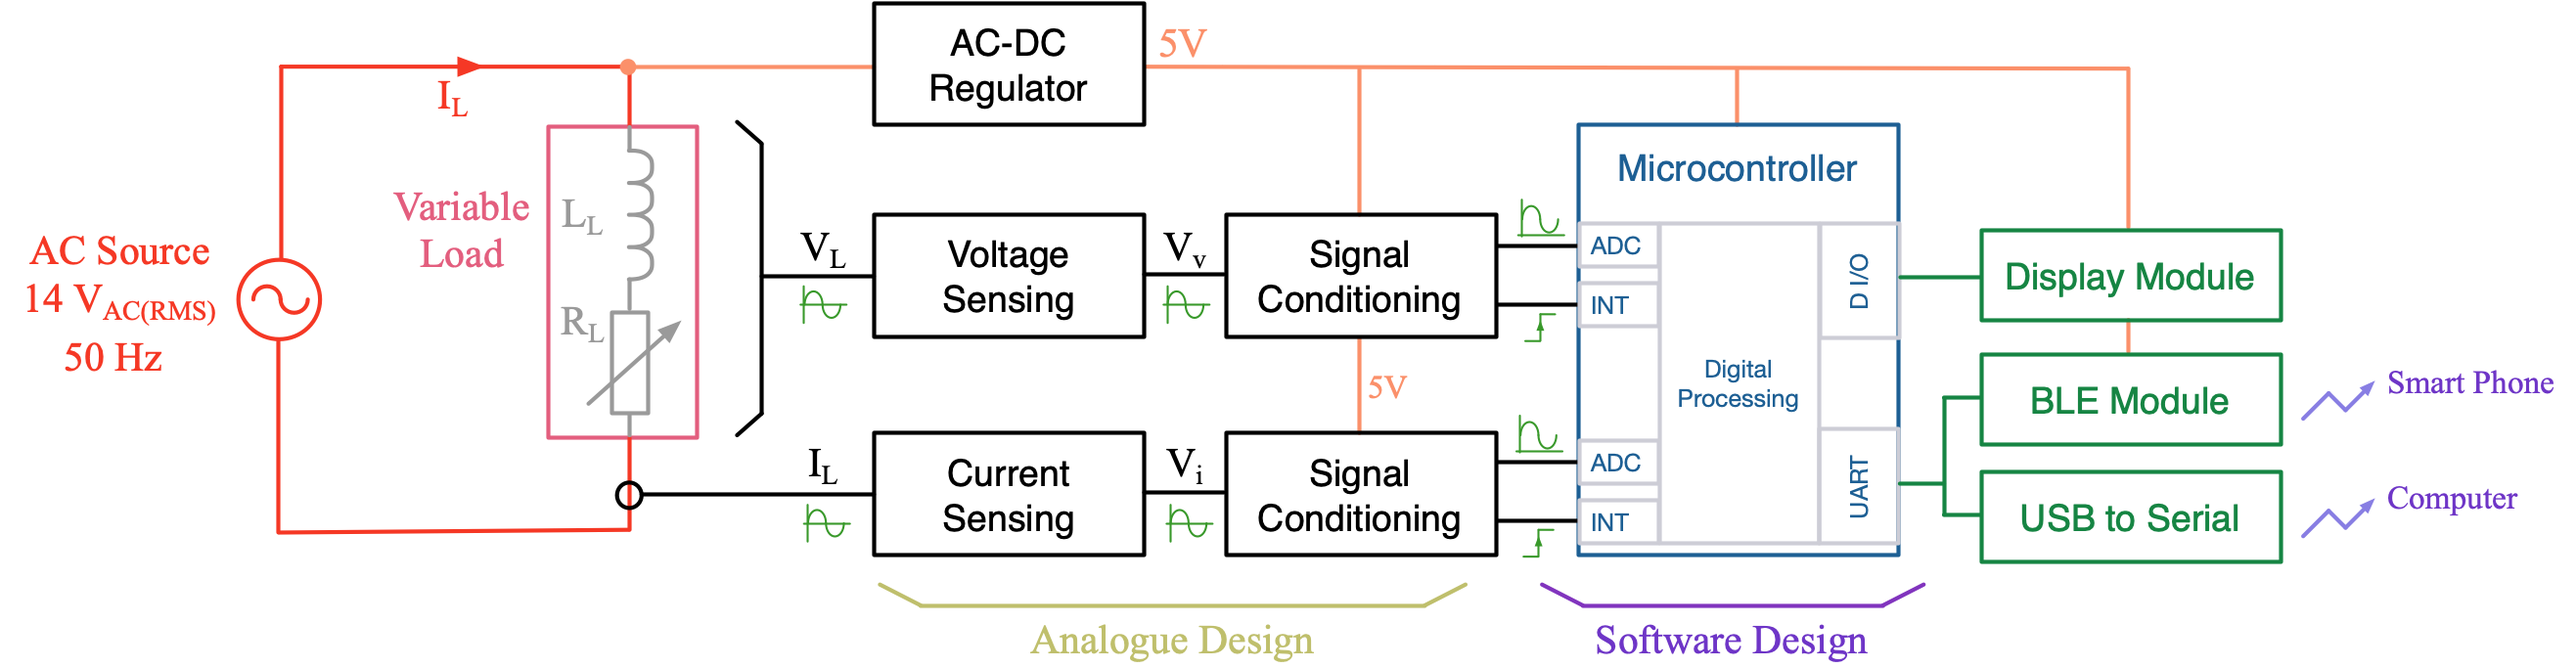
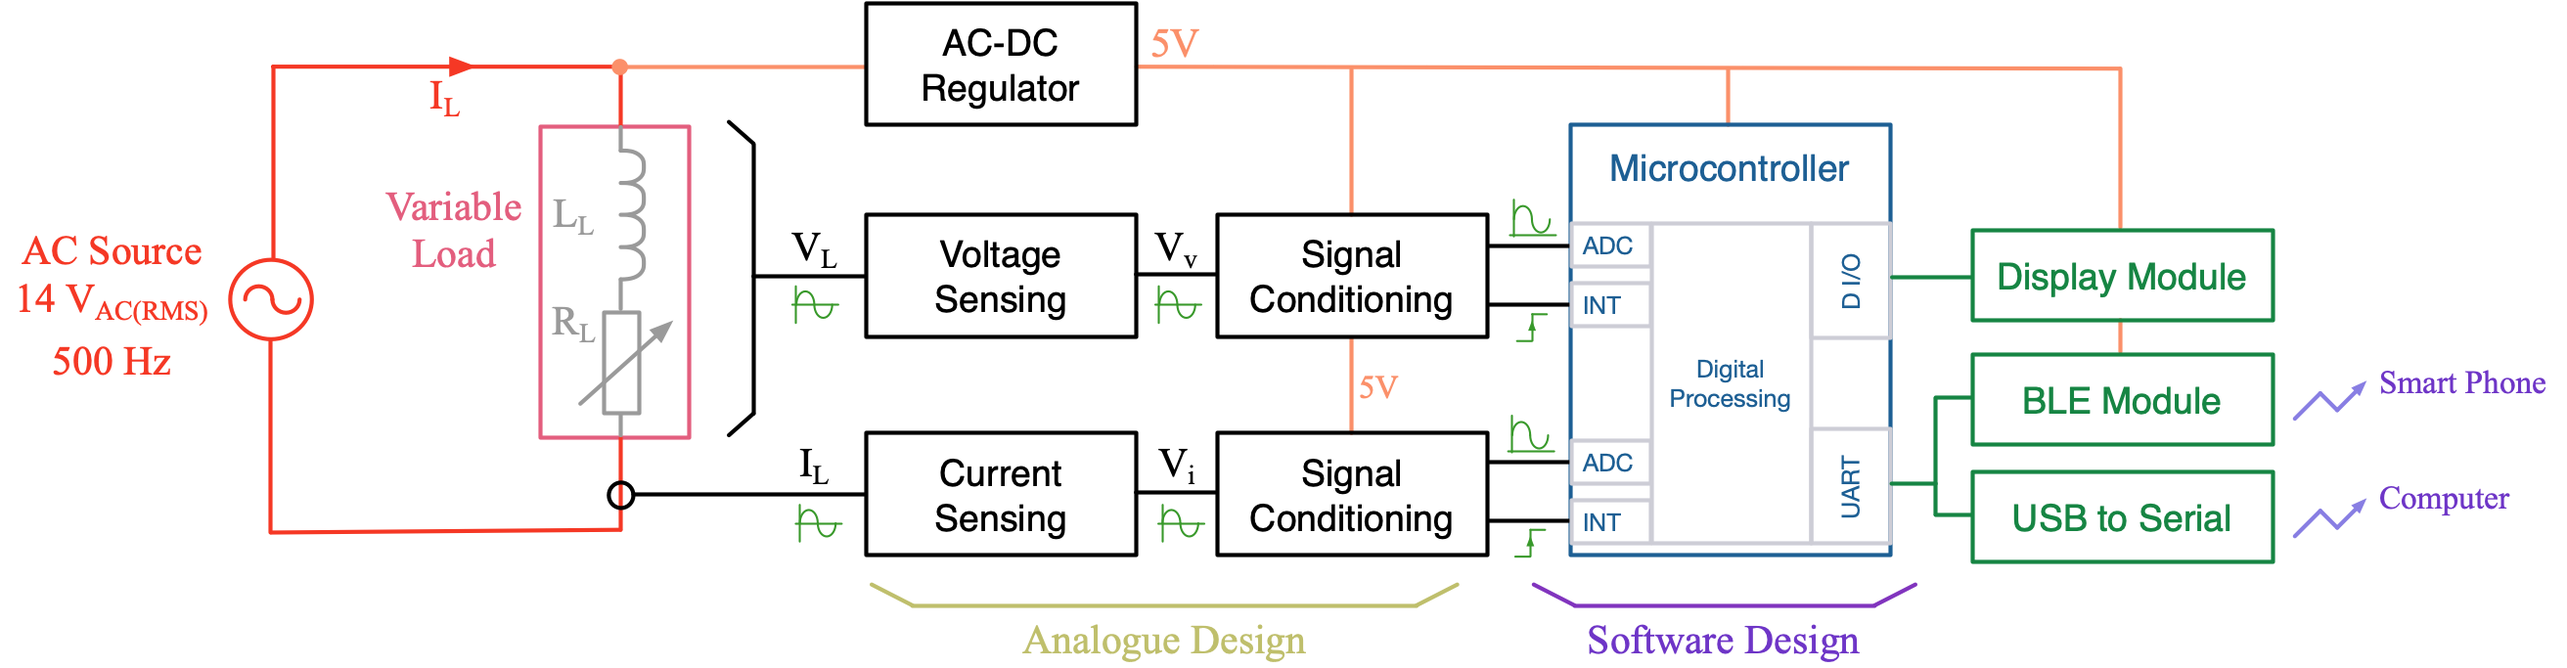
Intro lecture updated

diff --git a/presentations/intro/presentation.html b/presentations/intro/presentation.html
@@ -162,7 +162,7 @@ count: false
 .logo-title[]
 
 ## ELECTENG 209
-# Analogue & Embedded Software Design 
+# Analog & Embedded Software Design 
 ### An Introduction to the Course
 
 .TitleAuthor[Duleepa J Thrimawithana]
@@ -393,14 +393,14 @@ name: S14
 # The Project
 
 - What is this course about and what should you expect to learn?
- - Gives you an opportunity to put in to practice some of the theories (analogue electronics & embedded software development) you learnt to design and engineer a solution to a 'real life problem'
+ - Gives you an opportunity to put in to practice some of the theories (analog electronics & embedded software development) you learnt to design and engineer a solution to a 'real life problem'
  - During this process you will gain fundamental knowledge, experience, skill-set and professional behavior needed to succeed in the more challenging design projects you will engage
  in the future
 - What would you design and engineer during this course?
  - An energy monitor to measure and display the amount of energy consumed by a household appliance
 - How would you achieve this task?
- - The voltage and current at the input to appliance is measured using __analogue circuitry__ consisting of sensors, amplifiers and filters 
- - An __embedded software program__ executed on a microcontroller converts the analogue signals to digital form and calculates the energy consumption together with other important information
+ - The voltage and current at the input to appliance is measured using __analog circuitry__ consisting of sensors, amplifiers and filters 
+ - An __embedded software program__ executed on a microcontroller converts the analog signals to digital form and calculates the energy consumption together with other important information
  - The information is shown on a __local LCD display__ and also communicated __wirelessly using Bluetooth__ with other smart devices
 
 ---
@@ -410,7 +410,8 @@ name: S15
 
 - To simplify the design, we will consider a scaled-down system, which uses a low-voltage
 AC source 
-  - An AC load, consisting of a variable resistor in series with a fixed inductor, is used to emulate an house-hold appliance 
+ - The AC source frequency is 500 Hz (oppose to 50 Hz grid frequency) to reduce the size of the AC load
+ - An AC load, consisting of a variable resistor in series with a fixed inductor, is used to emulate an house-hold appliance 
 
 .center[<img src="img/System.png" height="275">]
 
@@ -437,7 +438,7 @@ name: S16
     </tr>
     <tr>
       <td class="tg-sabo">Source Frequency </td>
-      <td class="tg-sabo"> 50 Hz &plusmn 2% </td>
+      <td class="tg-sabo"> 500 Hz &plusmn 2% </td>
     </tr>
     <tr>
       <td class="tg-ig71">Load Range</td>
@@ -445,7 +446,7 @@ name: S16
     </tr>
     <tr>
       <td class="tg-sabo">Load Power Factor</td>
-      <td class="tg-sabo">0.75 to 0.99</td>
+      <td class="tg-sabo">0.7 to 1</td>
     </tr>
     <tr>
       <td class="tg-ig71">Measurement Accuracy</td>
@@ -453,15 +454,15 @@ name: S16
     </tr>
     <tr>
       <td class="tg-sabo">ADC Conversion Rate</td>
-      <td class="tg-sabo">1 kHz or slower</td>
+      <td class="tg-sabo">10 kHz or slower</td>
     </tr>
     <tr>
-      <td class="tg-ig71">LCD Display Information</td>
-      <td class="tg-ig71">Voltage, Current, Power and Energy</td>
+      <td class="tg-ig71">MCU System Clock</td>
+      <td class="tg-ig71">2 MHz</td>
     </tr>
     <tr>
-      <td class="tg-sabo">LCD Display Units</td>
-      <td class="tg-sabo">V<sub>RMS</sub>, A<sub>pk</sub>, W and W.min</td>
+      <td class="tg-sabo">LCD Display Information</td>
+      <td class="tg-sabo">Voltage (V<sub>pk</sub>), Current (A<sub>rms</sub>), Power (W)</td>
     </tr>
     <tr>
       <td class="tg-ig71">LCD Scroll Rate</td>
@@ -496,9 +497,7 @@ name: S17
 
 # Demo of Expected Final Design
 
-.center[
-<iframe width="784" height="441" src="https://www.youtube-nocookie.com/embed/5MTaWPhhueY" frameborder="0" allow="accelerometer; autoplay; encrypted-media; gyroscope; picture-in-picture" allowfullscreen></iframe>
-]
+Coming soon...
 
 ---
 name: S18
@@ -512,7 +511,7 @@ name: S18
  - This is an important part of preparing to be a professional engineer
  - You depend on each other to do well in this course
 - Plan your work, document your work and communicate regularly with your team members
- - Use [Trello](https://trello.com) to plan and manage the work as well as to document design notes and team discussions 
+ - Use a logbook and/or [Trello](https://trello.com) to plan and document your work 
  - Use [Slack](https://slack.com/intl/en-nz/) and [Zoom](https://zoom.us)/[Hangouts](https://hangouts.google.com) for team communications
  - Use [GitHub](https://github.com) and [G Suite](https://gsuite.google.com)/[Office 365](https://www.library.auckland.ac.nz/services/it-essentials/computer-facilities/software-personal-use/microsoft-student-advantage-office-365) products to collaborate with team members
 - Be patient with your team members even if they are not making much progress during the initial stage
@@ -527,7 +526,7 @@ name: S19
 # Course Calendar
 
 
-.center[<img src="img/2020Calendar.png" height="430">]
+.center[<img src="img/2021Calendar.png" height="450">]
 
 ---
 name: S20
@@ -584,9 +583,7 @@ name: S24
 
 # Entry Performance
 
-.center[
-<img src="img/Entry.png" height="450">
-]
+Coming later...
 
 ---
 name: S25
@@ -692,11 +689,11 @@ name: S29
     </tr>
     <tr>
       <td class="tg-sabo">Midsemester Progress Review </td>
-      <td class="tg-sabo">5%</td>
+      <td class="tg-sabo">6%</td>
     </tr>
     <tr>
       <td class="tg-ig71">Final Interview</td>
-      <td class="tg-ig71">15%</td>
+      <td class="tg-ig71">14%</td>
     </tr>
     <tr>
       <td class="tg-sabo">Project Deliverables </td>
@@ -718,14 +715,14 @@ name: S30
  - The written part of the tests will assess your understanding of fundamental concepts 
  - The simulation component of the 1st test will be conducted using LTspice
  - The simulation component of the 2nd test will be conducted using Atmel Studio and Proteus VSM
-- During each of the 15 lecture, we will conduct a 0.6% quizzes using Xorro-Q (or Canvas) to evaluate your engagement and understanding
- - Quizzes will be available for 24 hours and you are allowed multiple attempts
+- During each of the 15 lecture, we will conduct a 0.6% quizzes using Canvas to evaluate your engagement and understanding
+ - Quizzes will be available for 24 hours and you are allowed 3 attempts
  - The maximum marks you can get will be capped to 5%
 - The 6 lab assignments are designed to guide you through the design and advance your understanding
- - Allow plenty of time, especially if you have forgotten the EE202, EE210 & CS201 contents 
+ - Allow plenty of time, especially if you have forgotten the EE202/EE291 & CS201 contents 
  - You can work as a team, but your solutions must be __submitted individually__ 
  - We will use one of the two weekly lab sessions to help you complete these assignments 
- - The remaining weekly lab session will be used to assess your solutions (1%), understanding and engagement (1%) and use of digital collaboration tools (0.5%)
+ - The remaining weekly lab session will be used to assess your solutions (1%), understanding and engagement (1%) and use of collaboration tools and documentation (0.5%)
 
 
 ---
@@ -734,14 +731,14 @@ name: S31
 # Progress Review, Interview & Deliverables
 
 - Just before the midsemester break we will review your progress
- - An analogue circuit that meets all the needs of the project needs to be successfully designed, simulated and validated
- - An embedded software program that can transmit data from the ATmega328P via UART to a terminal should be successfully implemented, simulated and validated
- - A short interview will be held to assess your circuit (2%), software (1%) and your understanding (2%)
+ - An analog circuit that meets all the needs of the project needs to be successfully designed, simulated and validated
+ - An embedded software program that can transmit data from the ATmega328P via UART to a terminal should be successfully implemented and validated
+ - A short interview will be held to assess your circuit (2%), software (1%) and your understanding (3%)
 - During the last week of the semester there will be an interview to evaluate your design as well as your understanding of the subject matter
  - Design will be evaluated based on functionality (5%), measurement accuracy (5%) and quality (4%) 
  - You are required to submit a short technical report with details of your design (4%)
- - We will check how well you have used Trello, GitHub and Slack to plan, manage and document the work (2%)
- - Theoretical and practical knowledge of electronics (7.5%) and programming (7.5%) concepts you gained during the project will be assessed __individually__ during the interview 
+ - We will check how well you have used logbook/Trello, GitHub and Slack to plan, manage and document the work (2%)
+ - Theoretical and practical knowledge of electronics (7%) and programming (7%) concepts you gained during the project will be assessed __individually__ during the interview 
 
 ---
 name: S32
@@ -750,21 +747,21 @@ name: S32
 
 - The optional *Smart Energy Challenge* is focused on implementing a web-based data-logging system 
  - It should record and display the data collected from the energy monitor 
- - You may use an IoT platform like ThingSpeak to simplify this task
+ - You may use an IoT platform to simplify this task
 - Before attempting the *Smart Energy Challenge* you must complete all other tasks
- - You can get up to 1 bonus marks for successfully completing the *Smart Energy Challenge*
+ - You can get up to 2 bonus marks for successfully completing the *Smart Energy Challenge*
 - Based on the performance throughout the semester the top 4 design teams will be selected 
+ - Finalists will get up to 1 bonus marks 
 - Industry judges from [DATAMARS](https://datamars.com) will interview the top 4 teams 
  - These judges will deliver a seminar during the 6th week of the semester along with vital information about the interviews
- - They will decide the winners of the *2020 Smart Energy Challenge*
- - The winners will get up to 1 bonus marks and a certificate 
+ - They will decide the winners of the *2021 Smart Energy Challenge*
 
 .center[<img src="img/datamars.png" height="80">]
 
 ---
 name: S33
 
-# Digital Collaboration Tools
+# Collaborating with Team Members
 
 - To be a good engineer you also need to develop a number of *soft-skills*
  - Some of the key skills you should aim to develop are management, teamwork and communication 
@@ -773,7 +770,7 @@ name: S33
  - The information recorded in a logbook include, design notes, design decisions, calculations, software flow diagrams, schematics, meeting minutes, etc. 
 - In industry, many different digital tools are used to help with managing teamwork work, communicating with team members and documenting details of the project
  - Trello, Slack and GitHub are a few such most commonly used and simple to use tools 
-- In this project all students are expected to use Trello, Slack and GitHub to effectively plan, manage and document the work
+- In this project all students are expected to use a logbook and/or Trello together with Slack and GitHub to effectively plan, manage and document the work
  - We will regularly check how you use these tools as part of the assessment process
 
 ---
@@ -781,47 +778,46 @@ name: S34
 
 # Resources & Flexible Learning
 
-- Duleepa Thrimawithana (course director), Su Tang and Andrew Austin, from the academic staff, will be looking after this course
+- Duleepa Thrimawithana (course director) and Waleed Abdulla, from the academic staff, will be looking after this course
  - Felix Marattukalam and Wai Yeung are your technical facilitators 
 - Teaching assistance (TAs) will be available to help with lab assignments and the project
- - Victor Wang (EE), Patrick Lawton (EE), Vahid Zahiri (EE), Tharindu Dharmakeerthi (EE), Jagmeet Singh (EE), Cody Liu (EE), Osama Almulla (EE), Bilal Ahmed (EE), Kai Sun (EE), Tomas Antune (CS), Logan Kenwright (CS), Ryan Smith (CS), Ross Porter (CS) and Jeremy Towers (EE) are your TAs
-- You could either get support in-person during the dedicated lab sessions shown on the lab planner or seek support remotely using Piazza, Slack and Zoom/Hangouts if preferred working off-site
+ - Osama Almulla (PhD), Patrick Lawton (PhD), Vahid Zahiri (PhD), Jagmeet Singh (PhD), Cody Liu (PhD), Bilal Ahmed (PhD), Kai Sun (PhD), Lily Zhang (PhD), Ross Porter (PhD), Shaun Kyle (PIV), Elizabeth Yap (PIV), Andrey Chukhraev (PIII), Sean McKeown (PIII) and Earlene Babatte (PIII) are your TAs
+- You could get support in-person during the dedicated lab sessions shown on the lab planner 
+ - We will also provide support remotely using Piazza, Slack and Zoom/Hangouts 
  - You may also request additional staff assisted evening support/tutorial sessions (online or on-campus)
- - All software needed for this course can be accessed from home if you prefer to work remotely
+ - All software needed for this course can be accessed from home 
 - Recorded media will be provided to support your learning 
-- We will communicate all course related information via Canvas (and post them also on Slack)
+- We will communicate all course related information via Canvas and Slack
 
 ---
 name: S35
 
 # Enrolment & Software Installation
 
-- Prerequisite for this course are ELECTENG 202 and COMPSYS 201
+- Prerequisite for this course are ELECTENG 291 (or ELECTENG 202) and COMPSYS 201
  - If you have failed any of these courses, please contact us to check if your enrolment is still valid
-- Students are also expected to have passed ELECTENG 101 and ELECTENG 210
- - ELECTENG 209 heavily relies on the knowledge you should have gained from core ECSE papers (i.e. ELECTENG 101, ELECTENG 202, ELECTENG 210 and COMPSYS 201)
+- Students are also expected to have passed ELECTENG 101 
+ - ELECTENG 209 heavily relies on the knowledge you should have gained from core ECSE papers (i.e. ELECTENG 101, ELECTENG 202/291 and COMPSYS 201)
  - To help you revise, teaching material from these courses are also made available through the Canvas page for ELECTENG 209
 - In some cases, even if you do not meet the prerequisites, after an interview, we may allow you to continue with the course, but we will have to partner you with a suitable group 
- - Email Su with a copy to Duleepa for more information
-- Follow details on the EE209 Canvas Homepage to get setup on Piazza, Slack and GitHub
-- Guides detailing how to obtain and install your personal copy of the software we will use in this course (Atmel Studio, Proteus VSM, Altium Designer, LTspice, GitHub Desktop, etc.) are available on Canvas
+ - Contact Duleepa for more information
+- Follow details on Canvas or the [course website](https://uoa-ece209.github.io/extra.html) to get setup on Piazza, Slack and GitHub
+ - Guides detailing how to obtain and install your personal copy of the software we will use in this course (Atmel Studio, Proteus VSM, Altium Designer, LTspice, GitHub Desktop, etc.) are available
 
 ---
 name: S36
 
 # Building a Prototype
 
-- All practical components associated with the project are optional 
+- This is a design project and you are expected to develop a hardware prototype 
  - This includes breadboarding, assembling PCBs, testing hardware, building final prototype, etc.
- - This is because of the possibility of a lock-down due to COVID-19
-- If you wish to develop a prototype, we will provide you the resources and the support needed
- - Contact Duleepa for further information (ideally you should be doing this as a team)
+- We will provide resources and tools to get started on the project before you get to the stage of building your own prototype analog circuitry
+ - You can use Proteus VSM and the Xplained Mini 328PB development boards to develop and validate most of your software
+ - We will provide a hardware emulator that can be connected with the Xplained Mini 328PB for further debugging and validation by emulating the signals you expect to get from your own analog circuitry
 - The lab benches in MDLS 5 and MDLS 6 will be equipped with low-voltage AC power sources and variable load banks
- - The sources generate a 14 V<sub>RMS</sub>, 500 Hz AC voltage
+ - The sources generate 12.6 V<sub>RMS</sub> to 15.4 V<sub>RMS</sub>, 500 Hz AC voltage
  - The variable resistor in the load can be used to change the VA drawn by it between 2.5VA and 7.5VA
-- You will be given an Xplained Mini 328PB to use as your digital controller
- - The ATmega328PB on it is configured to operate at a 16 MHz system clock
-- Minor changes need to be made to your hardware and software designs, which you developed and tested with LTspice and Proteus 
+- We will have a number of workshops to teach you how to build and test your hardware
 
 ---
 name: S25
